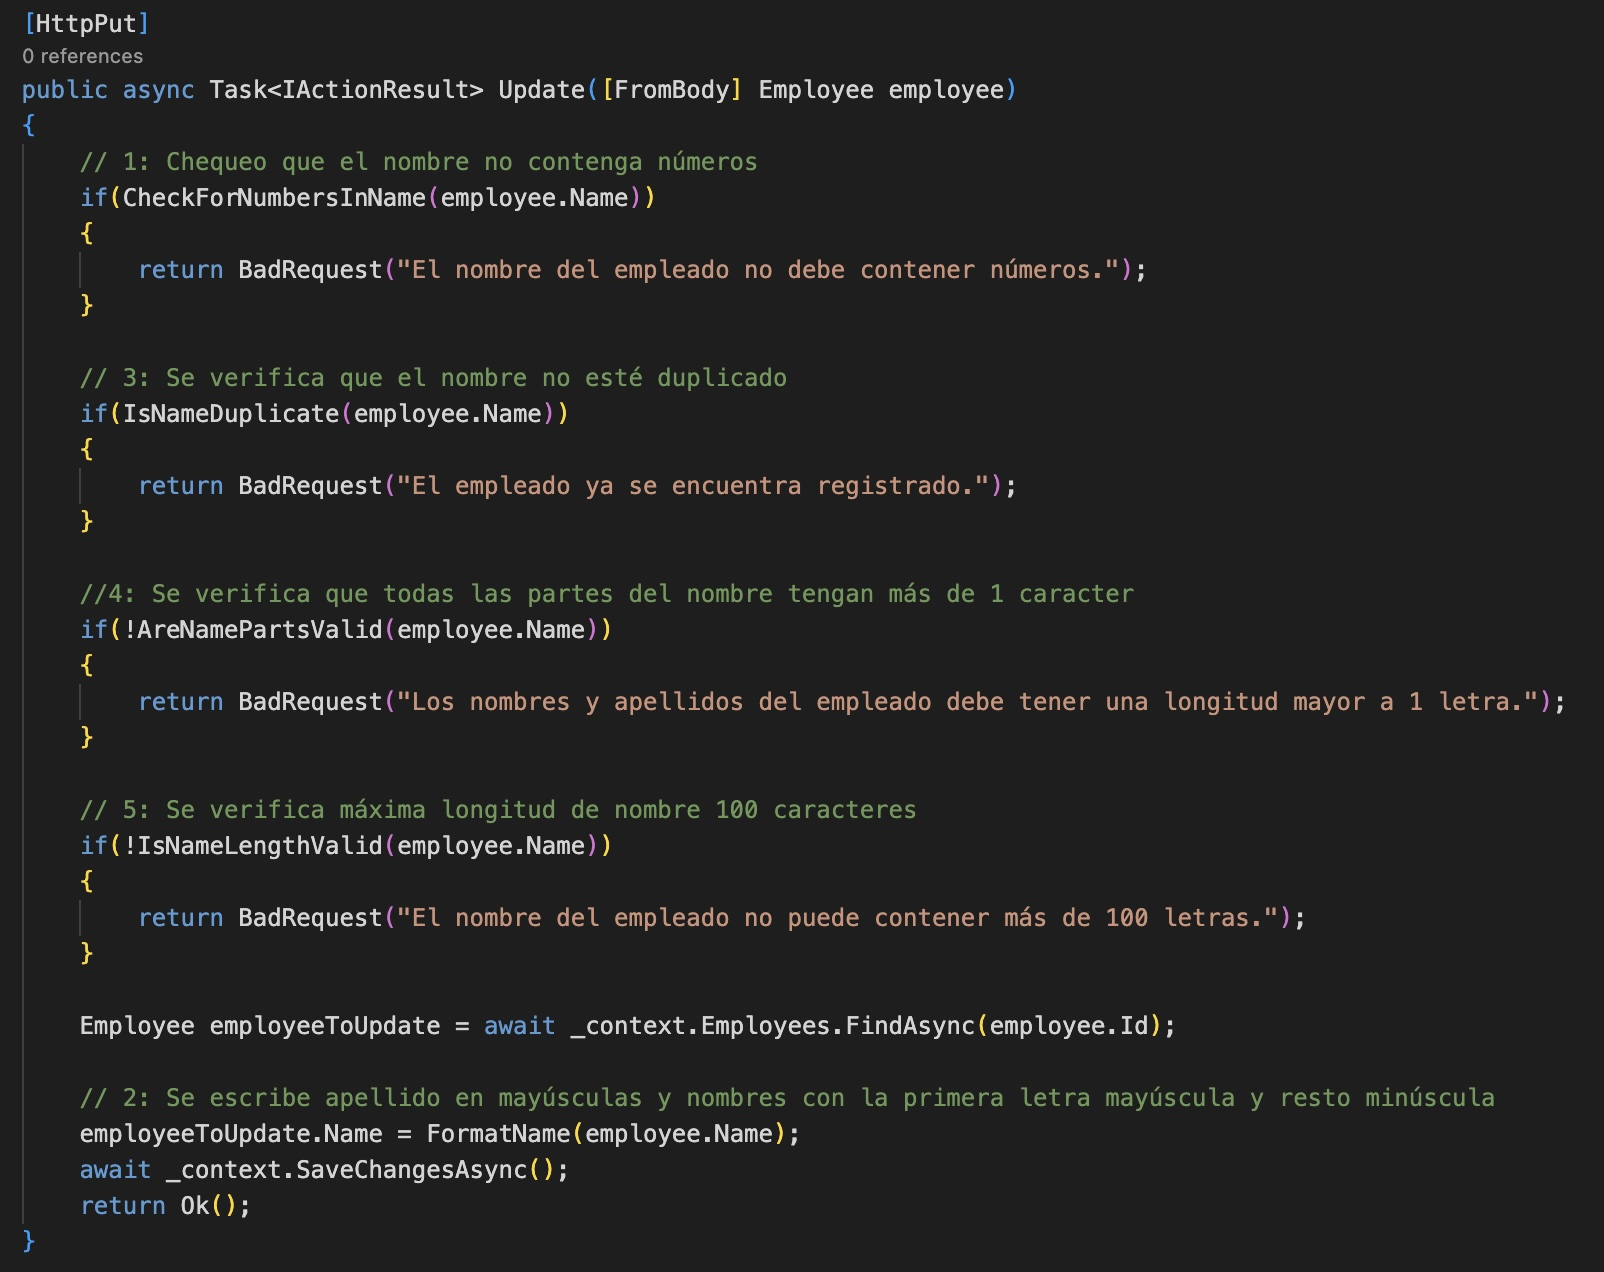
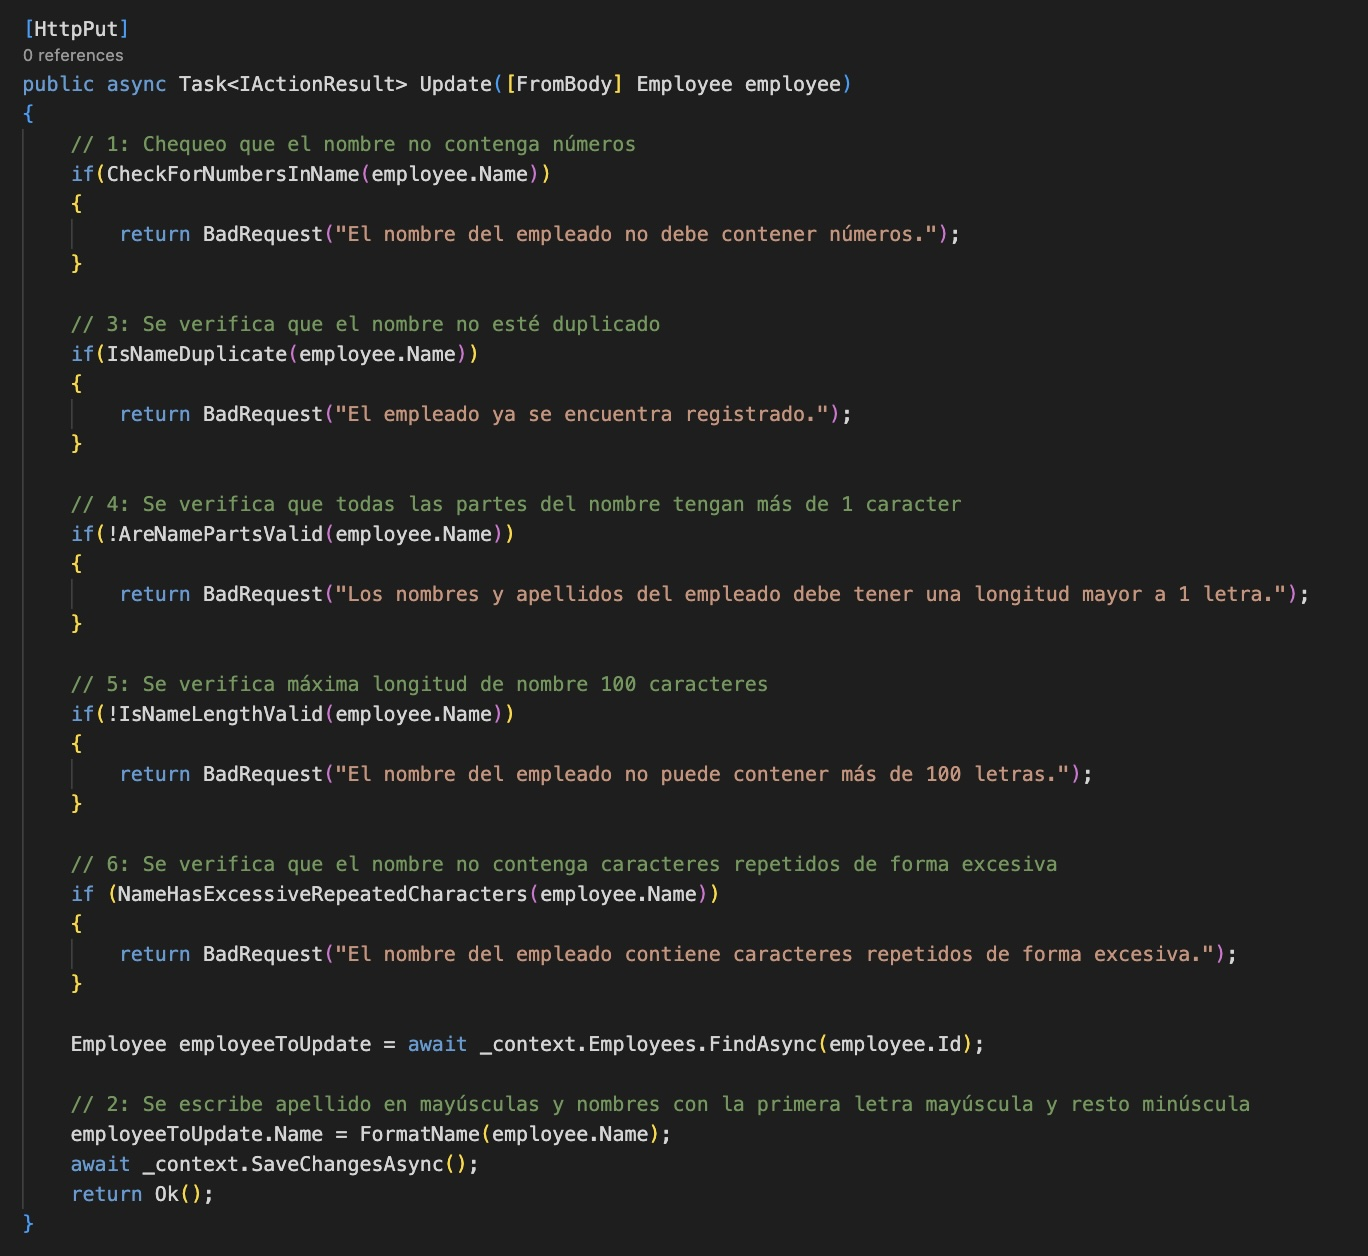
Trabajo Practico 6 completo (validacion adicional)

diff --git a/Práctico 6/README.md b/Práctico 6/README.md
@@ -183,6 +183,7 @@ Dentro del proyecto, se realizan las siguientes modificaciones:
 3. Al agregar y al editar un empleado, controlar que el nombre del empleado no esté repetido.
 4. Asegurar que cada parte del nombre (separada por espacios) tenga más de un carácter.
 5. La longitud máxima del nombre y apellido del empleado debe ser de 100 caracteres.
+6. Evitar que se ingresen caracteres repetidos de forma excesiva.
 
 En primer lugar, se implementan las funciones que realizan estas verificaciones. Las mismas reciben como parámetro el nombre del empleado a verificar, y retornan un booleano, excepto por la función de formateo de nombre que devuelve un string con el nombre escrito correctamente. A continuación se adjunta el código de estas funciones.
 
@@ -231,6 +232,27 @@ private bool AreNamePartsValid(string name)
 private bool IsNameLengthValid(string name)
 {
     return name.Length <= 100;
+}
+
+// 6: Chequeo de repetición excesiva de caracteres
+private bool NameHasExcessiveRepeatedCharacters(string name)
+{
+    int counter = 1;
+    for (int i = 1; i < name.Length; i++)
+    {
+        if (name[i] == name[i-1])
+        {
+            counter++;
+            if (counter > 2)
+                return true;
+        }
+        else
+        {
+            counter = 1;
+        }
+    }
+
+    return false;
 }
 ```
 
@@ -375,6 +397,26 @@ public async Task Create_ReturnsBadRequest_NameLengthOver100()
 }
 ```
 
+6. Evitar que se ingresen caracteres repetidos de forma excesiva.
+
+```c#
+[Fact]
+public async Task Create_ReturnsBadRequest_NameContainsRepeatedCharacters()
+{
+    // Arrange
+    var context = GetInMemoryDbContext();
+    var controller = new EmployeeController(context);
+
+    var newEmployee = new Employee { Id = 4, Name = "New Employeeeee" };
+
+    // Act
+    var result = await controller.Create(newEmployee);
+
+    // Assert
+    Assert.IsType<BadRequestObjectResult>(result);
+}
+```
+
 #### Actualización de empleado
 1. Verificar que el nombre no contenga números, ya que no es común en los nombres de empleados.
 
@@ -502,6 +544,26 @@ public async Task Update_UpdatesEmployee_ReturnsBadRequest_NameLengthOver100()
 }
 ```
 
+6. Evitar que se ingresen caracteres repetidos de forma excesiva.
+
+```c#
+[Fact]
+public async Task Updates_ReturnsBadRequest_NameContainsRepeatedCharacters()
+{
+    // Arrange
+    var context = GetInMemoryDbContext();
+    var controller = new EmployeeController(context);
+
+    var newEmployee = new Employee { Id = 4, Name = "New Employeeeee" };
+
+    // Act
+    var result = await controller.Update(newEmployee);
+
+    // Assert
+    Assert.IsType<BadRequestObjectResult>(result);
+}
+```
+
 ### Ejecución de pruebas
 Se ejecutan las pruebas escritas (junto con las anteriormente definidas en el proyecto) y se observa que todas ellas finalizan con resultado exitoso.
 
@@ -559,6 +621,12 @@ private isValidEmployeeName(name: string): boolean {
       return false;
     }
 
+     // 6: Se verifica la ausencia de caracteres repetidos excesivamente
+    if (this.hasExcessiveRepeatedCharacters(name)) {
+      this.toastr.error('El nombre del empleado no debe contener caracteres repetidos de manera excesiva.', 'Error de validación');
+      return false;
+    }
+
     return true;
   }
 ```
@@ -575,6 +643,28 @@ const formattedParts = nameParts.map((part, index) => {
     : part.charAt(0).toUpperCase() + part.slice(1).toLowerCase(); // Nombres
 });
 return formattedParts.join(' ');
+}
+```
+
+Y una función que verifica que el nombre no contenga un mismo caracter repetido más de 2 veces (utilizada en isValidEmployeeName).
+
+```typescript
+// 6: Chequeo de repetición excesiva de caracteres
+private hasExcessiveRepeatedCharacters(name: string): boolean {
+  let repetitionCount = 1;
+
+  for (let i = 1; i < name.length; i++) {
+    if (name[i] === name[i - 1]) {
+      repetitionCount++;
+      if (repetitionCount > 2) {
+        return true;
+      }
+    } else {
+      repetitionCount = 1;
+    }
+  }
+
+  return false;
 }
 ```
 
@@ -649,7 +739,7 @@ Nota: la validación
 
 3. Al agregar y al editar un empleado, controlar que el nombre del empleado no esté repetido.
 
-no fue tenida en cuenta para el frontend, debido a que requiere obtener un listado completo de los empleados actualmente registrados (utilizando la conexión a la API y la base de datos). Por este motivo, se implementó la lectura de errores provenientes de la API en las funciones de creación y actualización de empleados.
+no fue tenida en cuenta para el frontend, debido a que requiere obtener un listado completo de los empleados actualmente registrados (utilizando la conexión a la API y la base de datos). Por este motivo, se implementó la lectura de errores provenientes de la API en las funciones de creación y actualización de empleados, con su correspondiente caso de prueba.
 
 ### Pruebas manuales
 A continuación se prueban de forma manual algunas de las modificaciones implementadas para visualizar su correcto funcionamiento.
@@ -784,6 +874,23 @@ it('should fail to create employee when name is longer than 100', () => {
   });
 ```
 
+6. Evitar que se ingresen caracteres repetidos de forma excesiva.
+
+```typescript
+it('should fail to create employee when name contains repeated characters', () => {
+    const invalidEmployee = new Employee (1, 'Joooohn', '');
+    service.createEmployee(invalidEmployee).subscribe({
+      next: () => fail('Expected validation error'),
+      error: (error: Error) => {
+        expect(error.message).toContain('Employee name validation failed.');
+      }
+    });
+
+    expect(toastr.error).toHaveBeenCalledWith('El nombre del empleado no debe contener caracteres repetidos de manera excesiva.', 'Error de validación');
+
+  });
+```
+
 #### Actualización de empleado
 1. Verificar que el nombre no contenga números, ya que no es común en los nombres de empleados.
 
@@ -891,6 +998,23 @@ it('should fail to update employee when name is longer than 100', () => {
   });
 ```
 
+6. Evitar que se ingresen caracteres repetidos de forma excesiva.
+
+```typescript
+it('should fail to update employee when name contains repeated characters', () => {
+    const invalidEmployee = new Employee (1, 'Joooohn', '');
+    service.updateEmployee(invalidEmployee).subscribe({
+      next: () => fail('Expected validation error'),
+      error: (error: Error) => {
+        expect(error.message).toContain('Employee name validation failed.');
+      }
+    });
+
+    expect(toastr.error).toHaveBeenCalledWith('El nombre del empleado no debe contener caracteres repetidos de manera excesiva.', 'Error de validación');
+
+  });
+```
+
 ### Ejecución de pruebas
 Se ejecutan las pruebas escritas (junto con las anteriormente definidas en el proyecto) y se observa que todas ellas finalizan con resultado exitoso.
 
@@ -899,3 +1023,5 @@ Se ejecutan las pruebas escritas (junto con las anteriormente definidas en el pr
 ## Link a proyecto
 Se adjunta un enlace al proyecto en GitHub.
 [https://github.com/MaximoChattas/Angular_WebAPINetCore8_CRUD_Sample.git](https://github.com/MaximoChattas/Angular_WebAPINetCore8_CRUD_Sample.git)
+
+Nota: se agrega una validación adicional por no poder probar adecuadamente el chequeo de empleados repetidos íntegramente desde el frontend.
